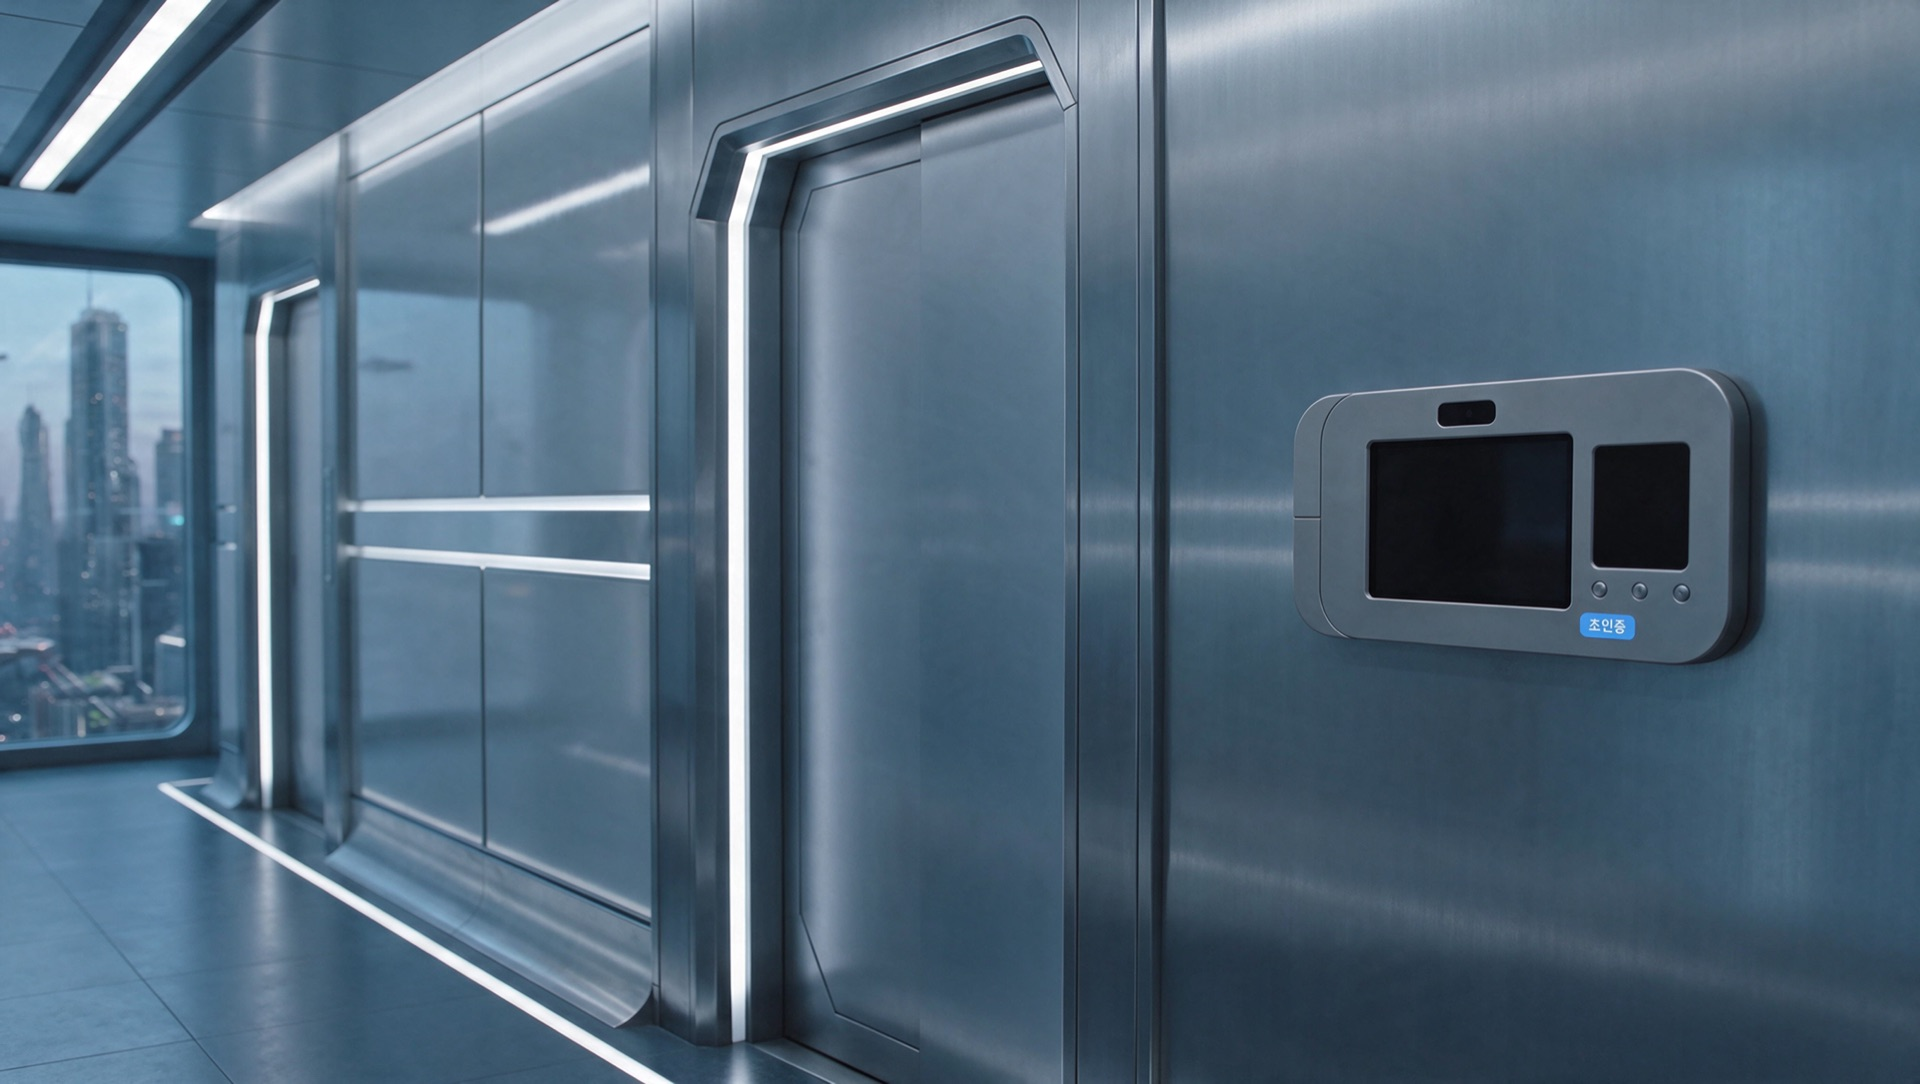
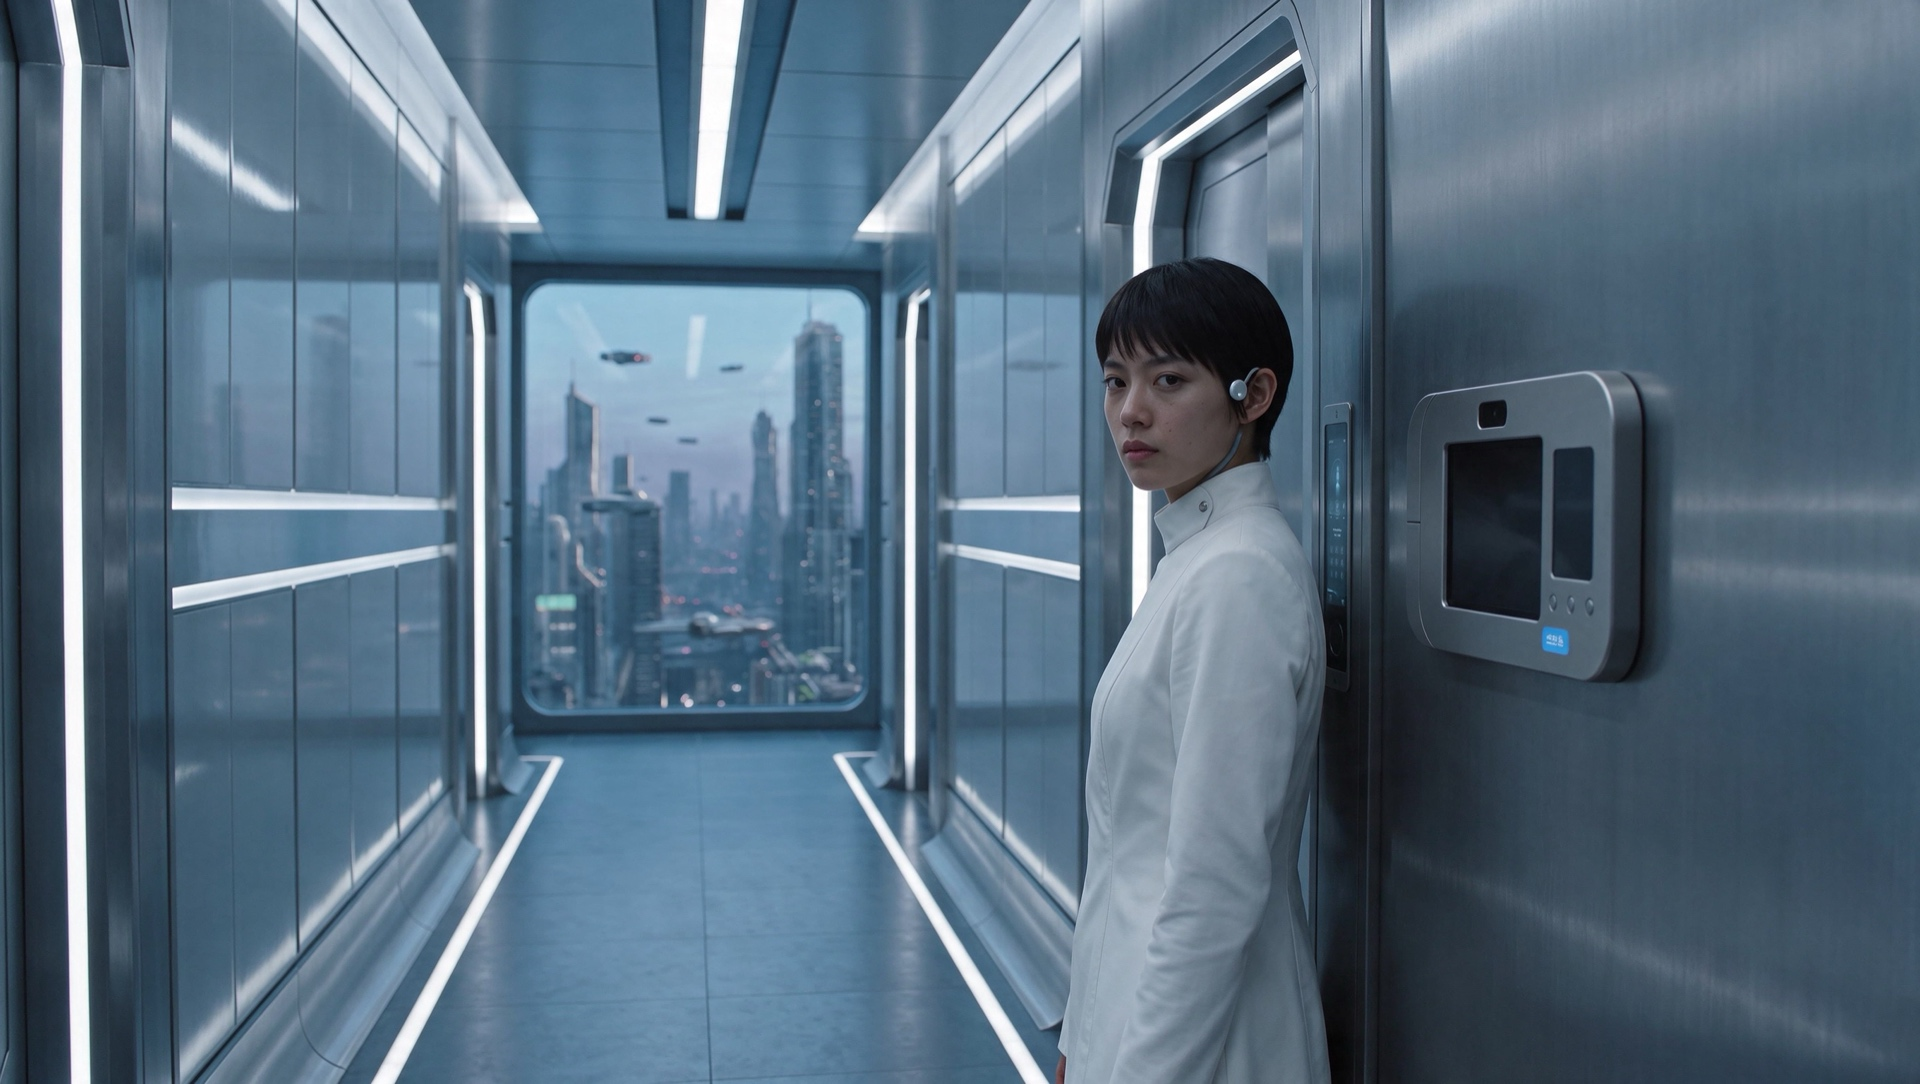
Figma 최종 스토리보드 기준 대사·이미지 반영: 클로이 대사 간소화, Outlier 경로 휴미터 제거 장면 추가, 컷신 이미지 3장 교체(s4-corridor·e-adapter-party·e-zealot-hand)

diff --git a/prototype/src/story.js b/prototype/src/story.js
@@ -296,8 +296,8 @@ const raw = [
   N('잠시 망설이던 당신은 초인종을 누른다. 곧 도어폰 너머로 클로이의 목소리가 들려온다.', 'After a moment’s hesitation, you ring the bell. Soon Chloe’s voice comes through the intercom.', { sfx: ['doorbell', 'intercom'] }),
   L('클로이', '“왔구나. …어, 잠깐만 너 HQ가…”', '“You’re here! ...Oh, wait, your HQ...”'),
   N('스피커 너머로 잠시 정적이 흐른다. 뒤쪽에서는 누군가 웃는 소리가 들려온다.', 'A brief silence comes through the speaker. Someone is laughing in the background.', { amb: 'party' }),
-  L('클로이', '“미리 말했어야 했는데. 미안해. 그런데 너도 알잖아. 요즘은 HQ가 비슷한 사람들끼리 어울리는 게 당연하니까. 우리도 나름 기준이 있는데, 너 하나 때문에 바꾸긴 좀 그렇잖아?”', '“I should have told you earlier. I’m sorry. But you know how it is. These days, people with similar HQ stick together. We have our own standard, and it’s a bit much to change it just for you, right?”'),
-  L('클로이', '“다른 애들도 별로 내키지 않는 눈치고…… HQ 조금만 더 올려서 다시 오면 안 될까?”', '“The others don’t seem too keen either... Could you raise your HQ a little and come back?”'),
+  L('클로이', '”미리 말했어야 했는데. 미안해. 그런데 너도 알잖아. 요즘은 HQ가 비슷한 사람들끼리 어울리는 게 당연하니까.”', '”I should\'ve told you earlier. Sorry. But you know how things are these days. People tend to stick with others who are on their level.”'),
+  L('클로이', '”HQ 조금만 더 올려서 다시 오면 안 될까?”', '”Could you raise your HQ a little and come back?”'),
 
   // Route A · AI를 인정한 사람들
   { when: ifRoute('A'), img: 's4-jin-a', ...N('당신과 나인은 클로이의 집 앞에 멍하니 서 있다. 손에는 클로이에게 전할 편지와 선물이 들려 있다.', 'You and Nyin stand blankly at Chloe’s door, the letter and gift for Chloe in your hands.') },
@@ -333,10 +333,10 @@ const raw = [
   { when: ifFinal('zealot'), ...L(ME, '“……나인, 미안해.”', '“...Nyin, I’m sorry.”') },
   { when: ifFinal('zealot'), ...L('나인', '“네? {name}……?”', '“What? {name}...?”') },
   { when: ifFinal('zealot'), ...N('당신은 나인의 말이 끝나기도 전에 나인의 귀에 부착된 휴미터를 거칠게 뜯어낸다. 휴미터를 손에 쥐고 자신의 귀에 가져다 대자 HQ가 올라가는 것이 느껴진다. 당신은 바닥에 쓰러진 나인을 뒤로한 채, 망설임 없이 집 안으로 들어선다.', 'Before Nyin can finish, you rip the Humeter from Nyin’s ear. As you hold it to your own ear, you feel your HQ rise. Leaving Nyin collapsed on the floor, you walk into the house without hesitation.') },
-  { when: ifFinal('outlier'), ...L(ME, '“사람들이 정한 인간다움에 맞추려고 내 행동까지 바꾸고 싶진 않아. 그렇다고 AI의 도움을 받고 싶지도 않고.”', '“I don’t want to change who I am to fit what people call human. But I don’t want an AI’s help either.”') },
-  { when: ifFinal('outlier'), ...L('나인', '“그렇군요. 그럼 돌아갈까요?”', '“I see. Shall we go back, then?”') },
-  { when: ifFinal('outlier'), ...L(ME, '“난 돌아가겠어.”', '“I’m going back.”') },
-  { when: ifFinal('outlier'), ...N('당신은 나인과 함께 발걸음을 돌려 집으로 향한다. 클로이에게 무시당한 건 여전히 마음에 걸리지만, 한편으로는 마음 한켠이 한결 가볍다.', 'You turn around and head home with Nyin. Being brushed off by Chloe still stings, but part of you feels lighter.') },
+  { when: ifFinal('outlier'), ...L(ME, '”사람들이 정한 인간다움에 맞추려고 내 행동까지 바꾸고 싶진 않아. 그렇다고 AI의 도움을 받아서까지 그러고 싶지도 않고.”', '”I don\'t want to change the way I act just to fit someone else\'s idea of what it means to be human. And I don\'t want an AI\'s help to do it, either.”') },
+  { when: ifFinal('outlier'), ...L('나인', '”{name}, 설마 휴미터를 떼어내려는 건가요?”', '”{name}, you\'re not thinking of removing the Humeter, are you?”') },
+  { when: ifFinal('outlier'), ...L(ME, '”난 그냥 돌아갈래.”', '”I just want to go back.”') },
+  { when: ifFinal('outlier'), ...N('당신은 귀에 부착된 휴미터를 떼어 바닥에 내던진다. 그리고는 뒤돌아 집으로 향한다. 이제 공식적으로 가장 인간답지 않은 사람이 되었다. 하지만 정말 그럴까?', 'You rip the Humeter from your ear and hurl it to the ground. Then you turn and head home. Officially, you are now the least human person there is. But is that really true?') },
 
   // ───────── 5장 · 엔딩 (엔딩 영상 → 마지막 질문 → 결과 화면, Figma 2254 · 2255 · 2262)
   { chapter: 5, when: ifFinal('adapter'), img: 'e-adapter-phone', bgm: 'end-adapter', amb: 'street-day', ...N('급하게 감동적인 영상을 찾아보고, 기부를 하고, 길에서 쓰레기를 줍는다.', '{name} rushes to watch moving videos, makes a donation, picks up trash on the street.') },
